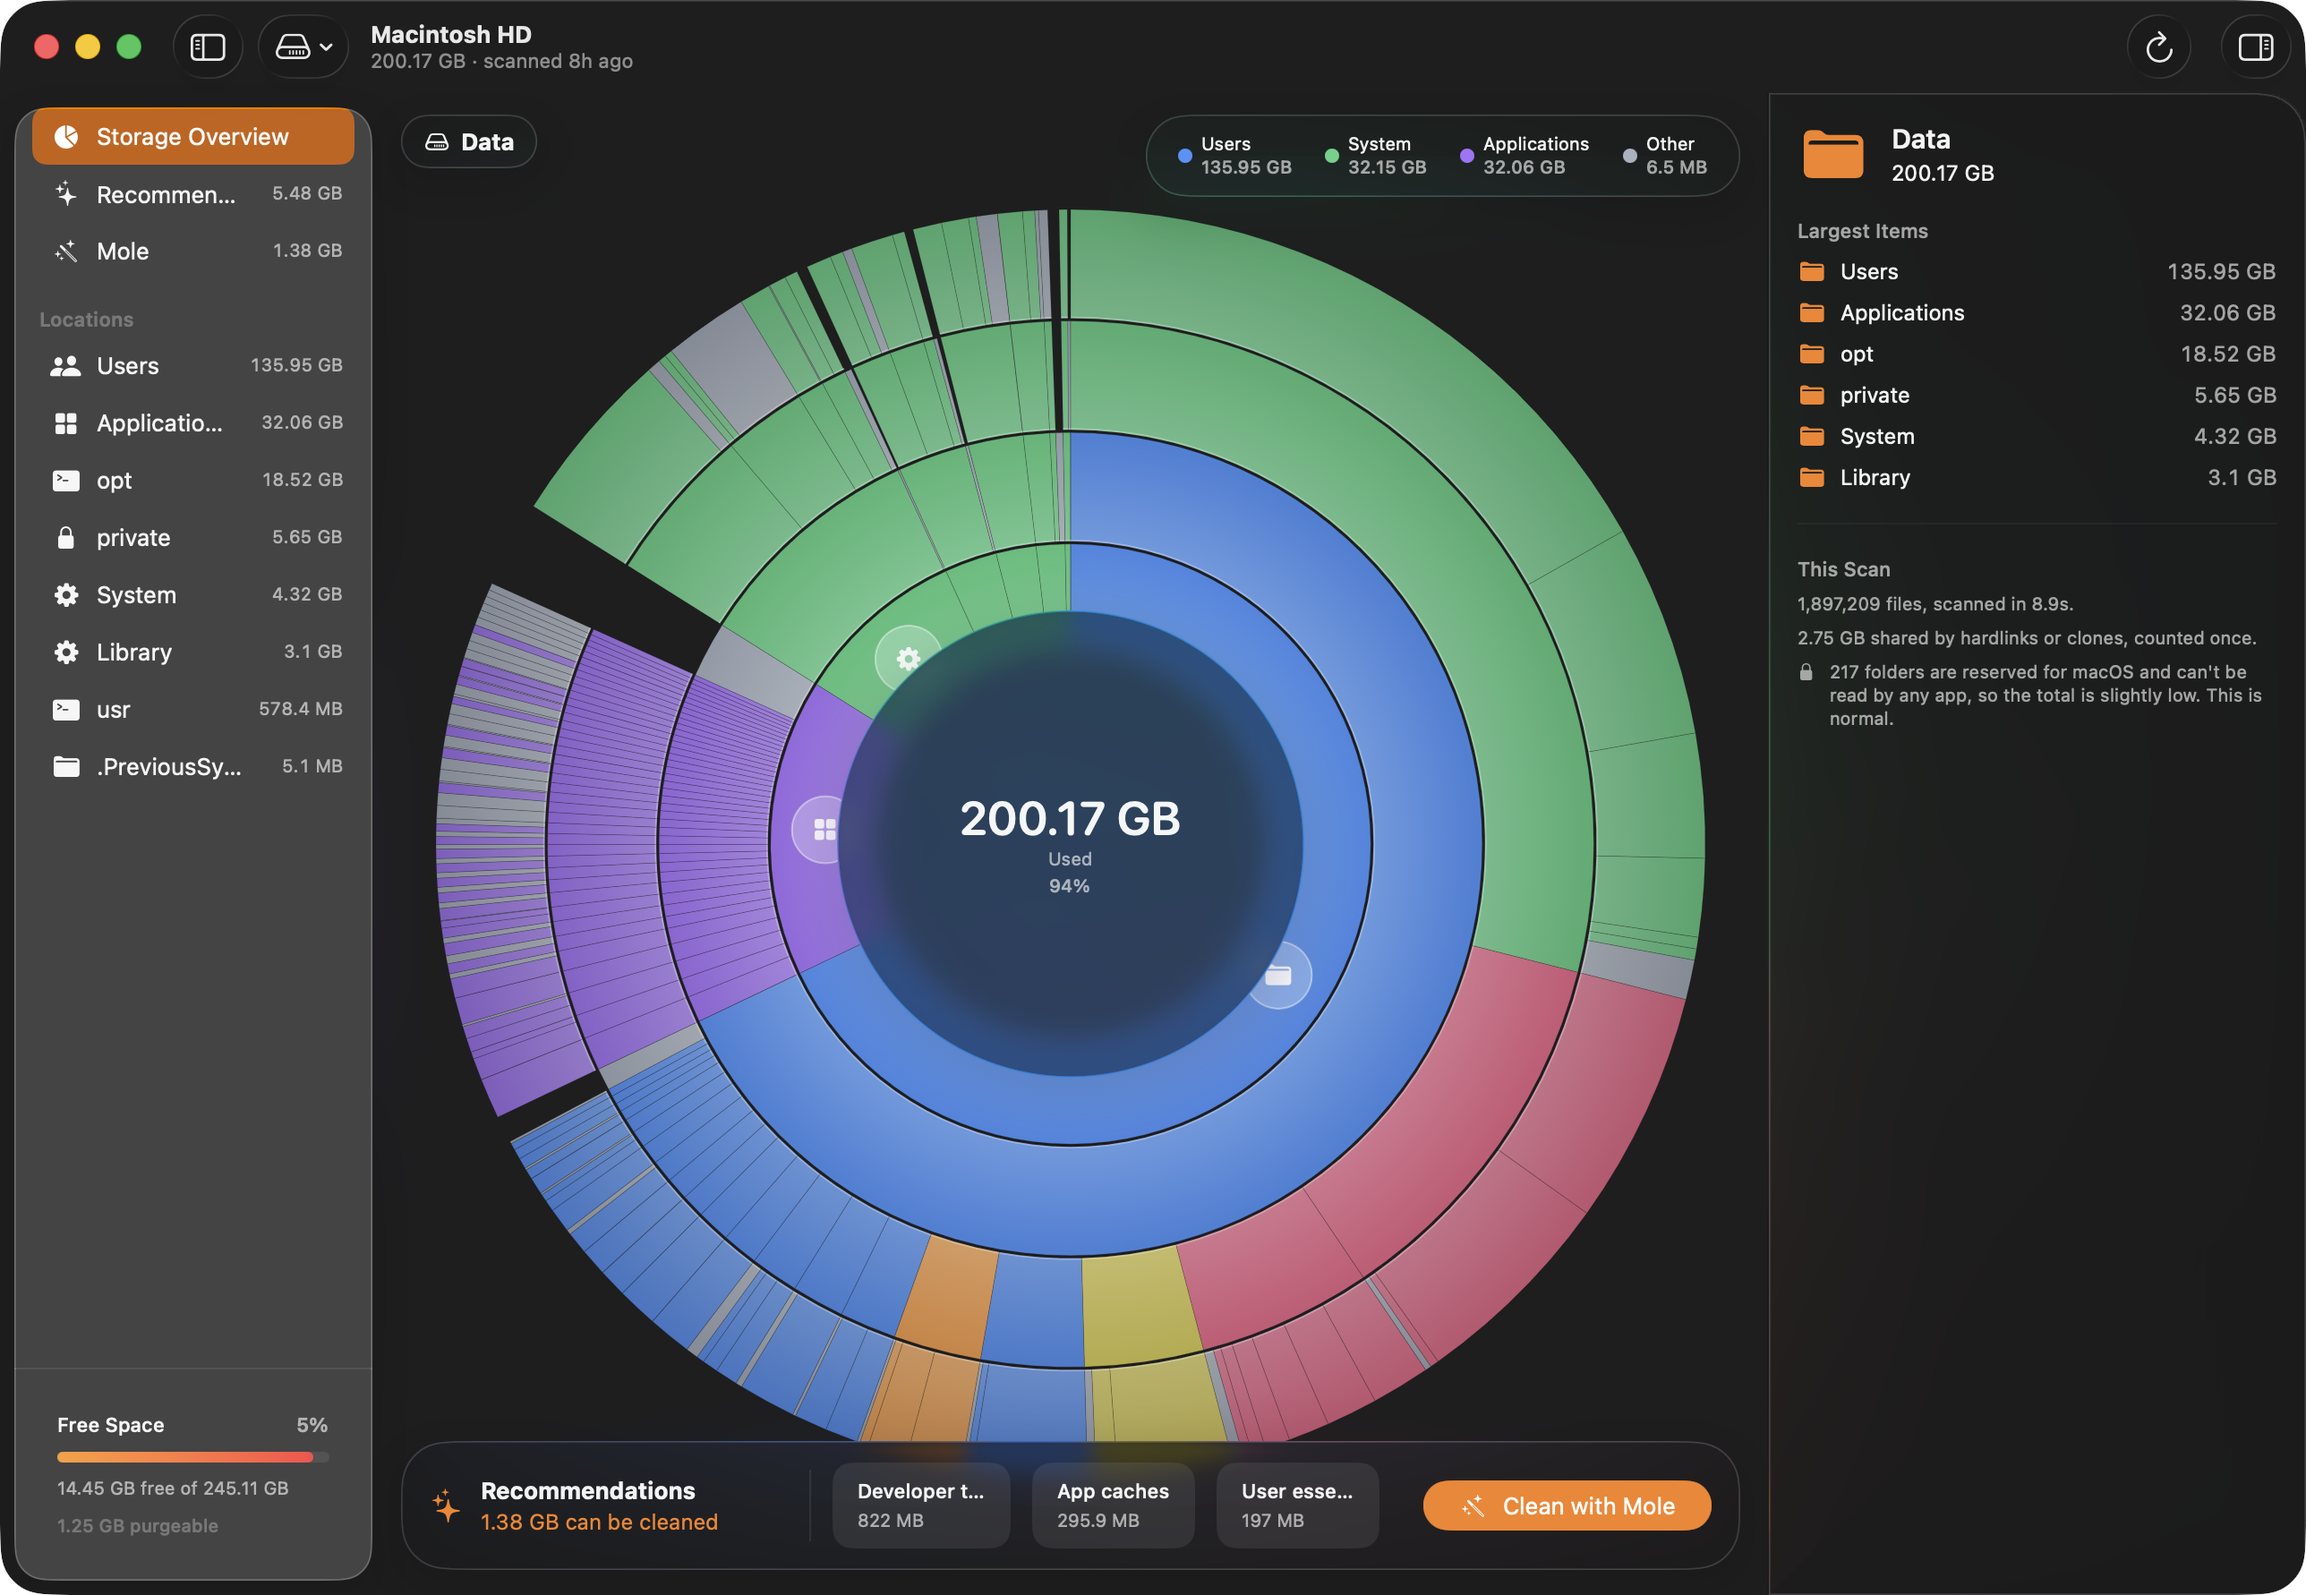
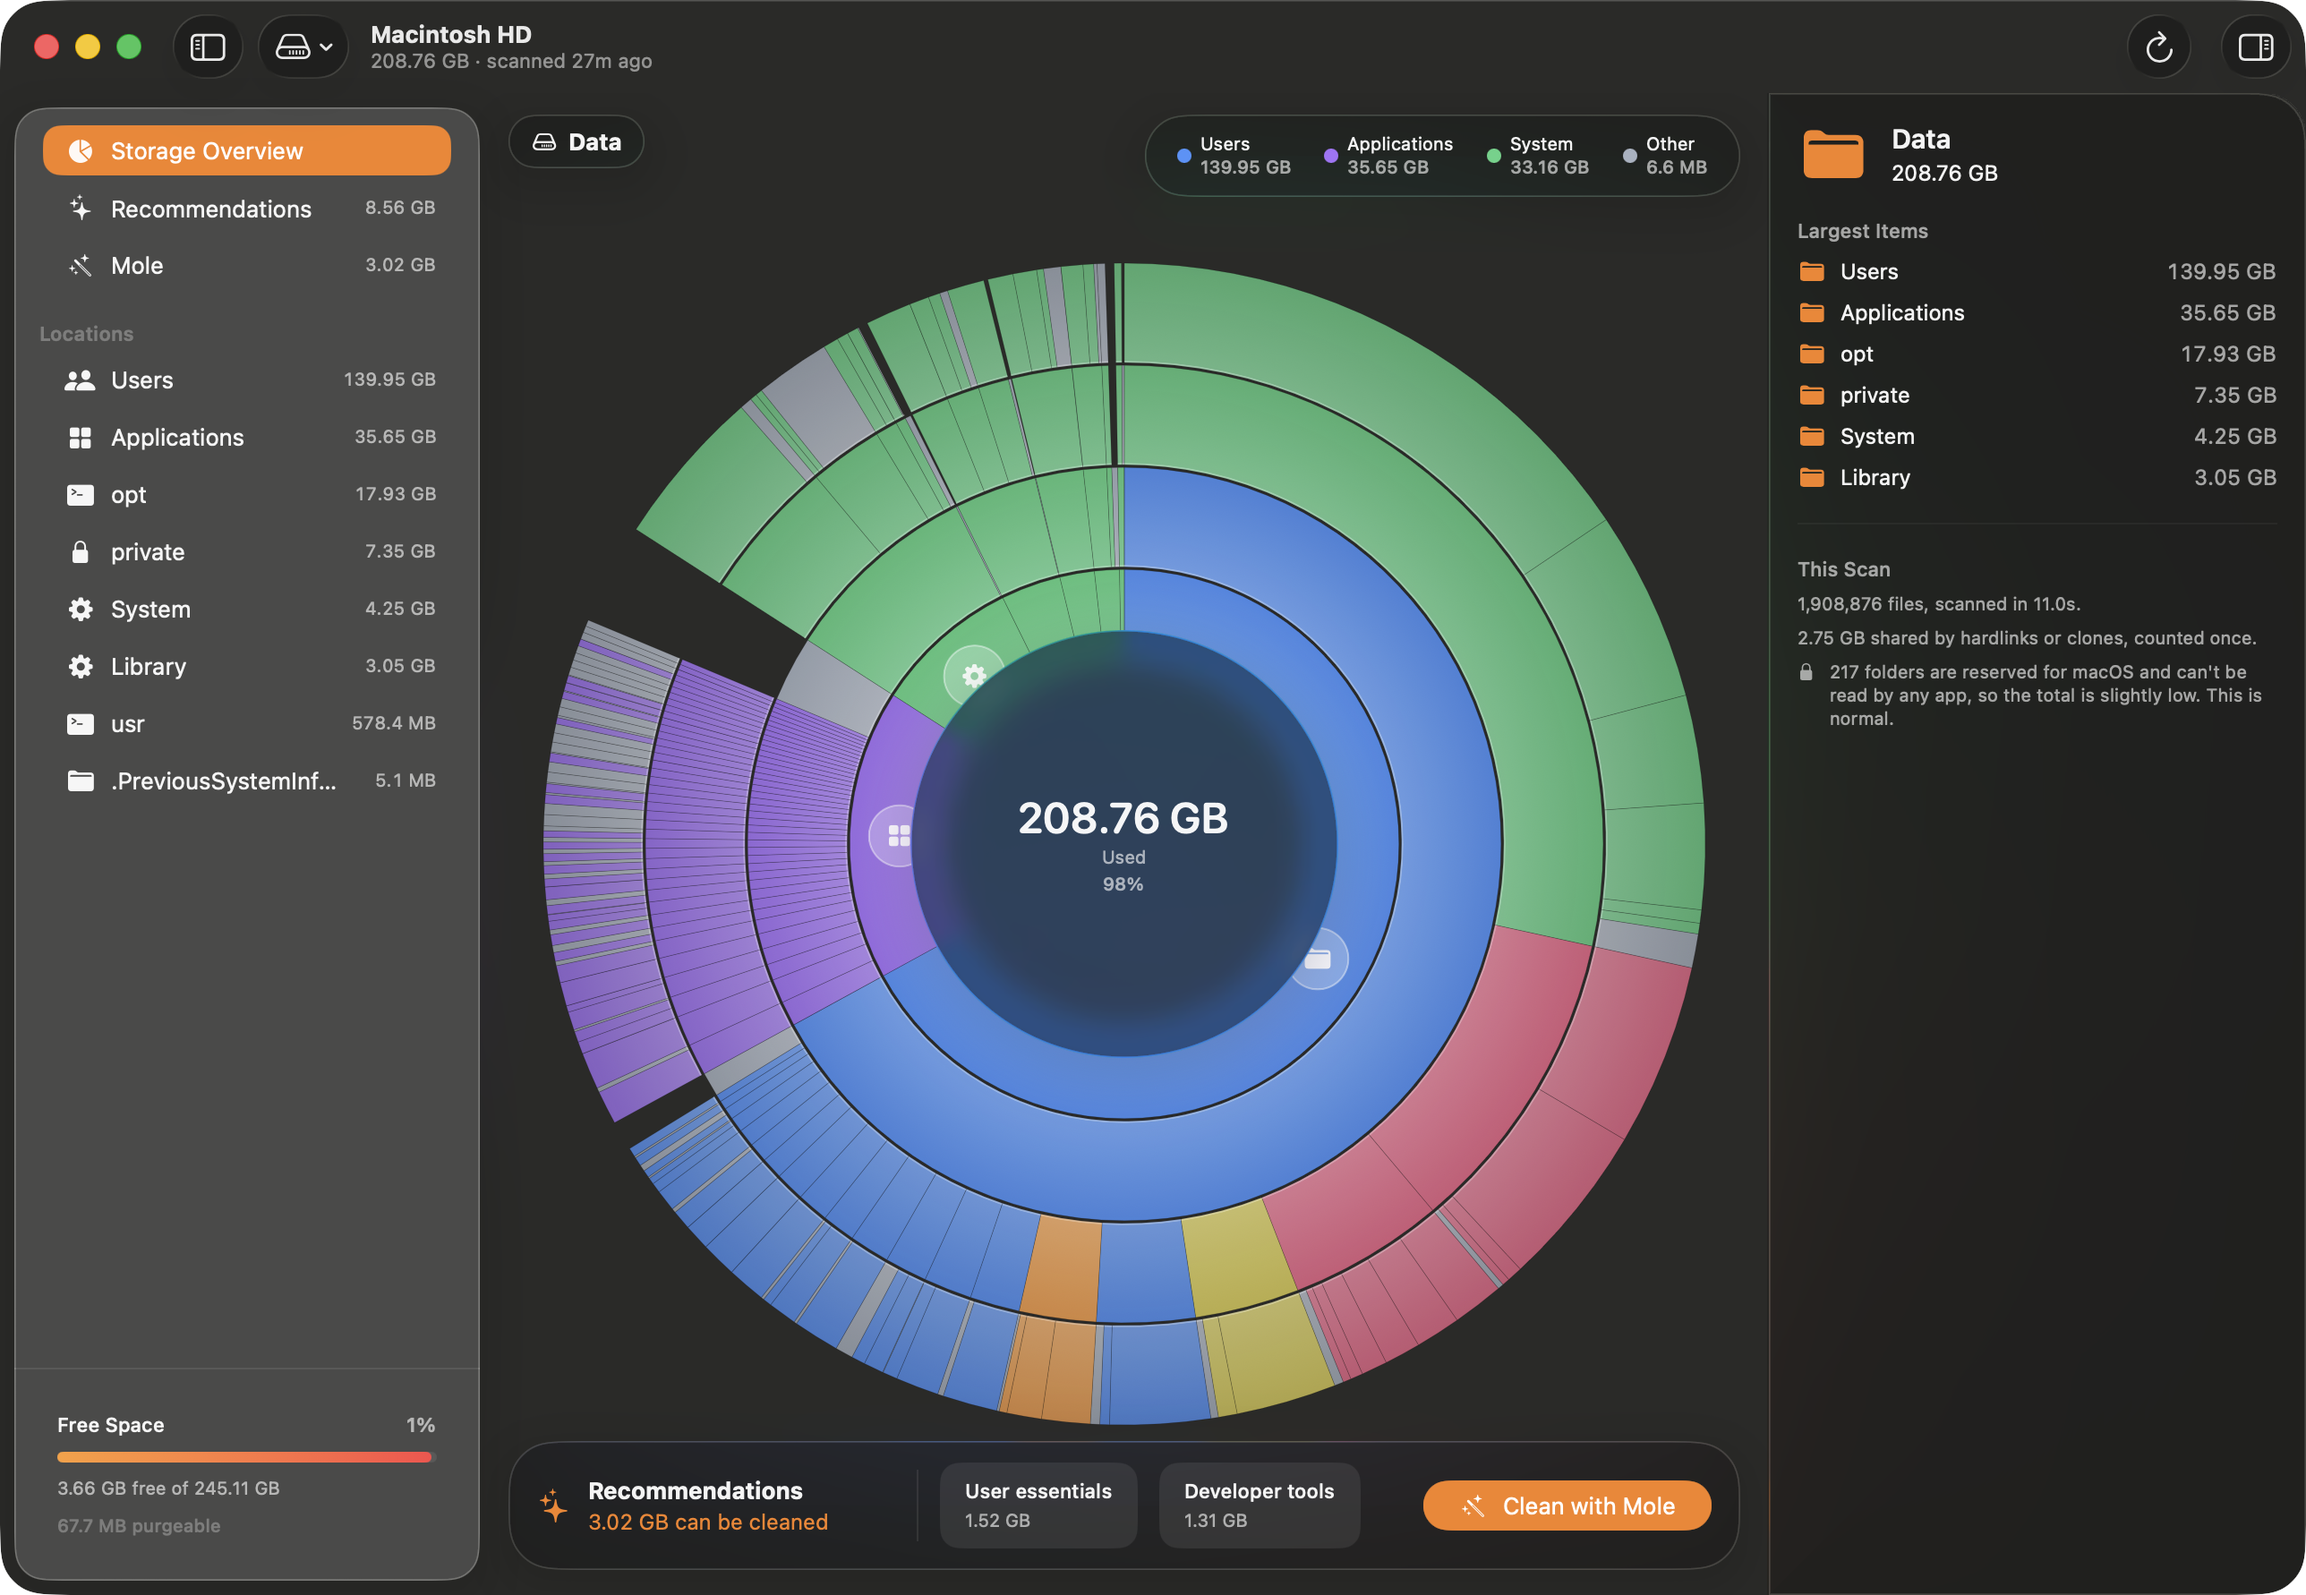
Drop whole recommendation cards instead of truncating their names
Widening the sidebar squeezed the bottom strip, and its three cards started
reading "User e…", "Develo…", "App c…". The category name is the entire point
of a card, so an abbreviated one carries no information.

ViewThatFits now picks the largest number of cards that actually fit — three,
two, one, or none — each measured at its full width so the choice is made on
real sizes rather than on names already squeezed.

Screenshots retaken, since the previous pair still showed the truncated strip.

diff --git a/Sources/Disker/Views/Recommendations/RecommendationBar.swift b/Sources/Disker/Views/Recommendations/RecommendationBar.swift
@@ -59,29 +59,48 @@ struct RecommendationBar: View {
         .frame(minWidth: 200, alignment: .leading)
     }
 
-    @ViewBuilder
+    /// Drops whole cards rather than truncating their names.
+    ///
+    /// The strip shares its width with the sidebar and the inspector, and a card reading
+    /// "User e…" tells you nothing — the category name is the entire point of it. Showing
+    /// fewer, complete cards is more useful than three abbreviated ones, so this picks the
+    /// largest count that actually fits.
     private var categoryCards: some View {
-        // Largest few categories, since the strip has limited width.
+        ViewThatFits(in: .horizontal) {
+            cards(3)
+            cards(2)
+            cards(1)
+            EmptyView()
+        }
+    }
+
+    /// The `count` largest categories, each sized to its full name.
+    private func cards(_ count: Int) -> some View {
         let top = model.moleReport?.categories
             .sorted { $0.totalSize > $1.totalSize }
-            .prefix(3) ?? []
+            .prefix(count) ?? []
 
-        ForEach(Array(top), id: \.id) { category in
-            VStack(alignment: .leading, spacing: 3) {
-                Text(category.name)
-                    .font(.subheadline.weight(.medium))
-                    .lineLimit(1)
-                Text(category.totalSize.formattedBytes)
-                    .font(.caption)
-                    .foregroundStyle(.secondary)
+        return HStack(spacing: 12) {
+            ForEach(Array(top), id: \.id) { category in
+                VStack(alignment: .leading, spacing: 3) {
+                    Text(category.name)
+                        .font(.subheadline.weight(.medium))
+                        .lineLimit(1)
+                    Text(category.totalSize.formattedBytes)
+                        .font(.caption)
+                        .foregroundStyle(.secondary)
+                }
+                // Measured at full width, so `ViewThatFits` decides on the real size rather
+                // than on a name that has already been squeezed.
+                .fixedSize()
+                .padding(.horizontal, 14)
+                .padding(.vertical, 9)
+                // A fill, not a second glass layer. These ride on top of the bar's material,
+                // and Apple's fix for elements over glass is fills and vibrancy rather than
+                // more glass.
+                .background(.quaternary, in: .rect(cornerRadius: 11))
+                .help(category.items.prefix(6).map(\.name).joined(separator: "\n"))
             }
-            .padding(.horizontal, 14)
-            .padding(.vertical, 9)
-            // A fill, not a second glass layer. These ride on top of the bar's material,
-            // and Apple's fix for elements over glass is fills and vibrancy rather than
-            // more glass.
-            .background(.quaternary, in: .rect(cornerRadius: 11))
-            .help(category.items.prefix(6).map(\.name).joined(separator: "\n"))
         }
     }
 
